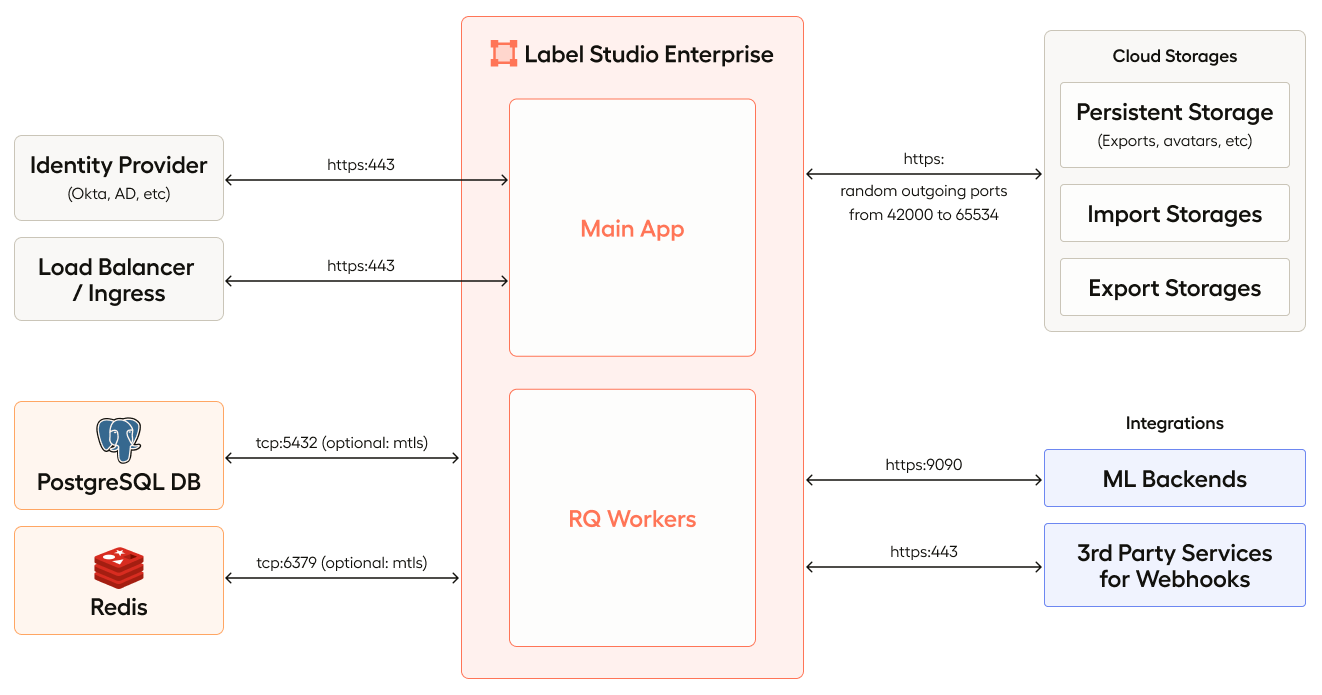
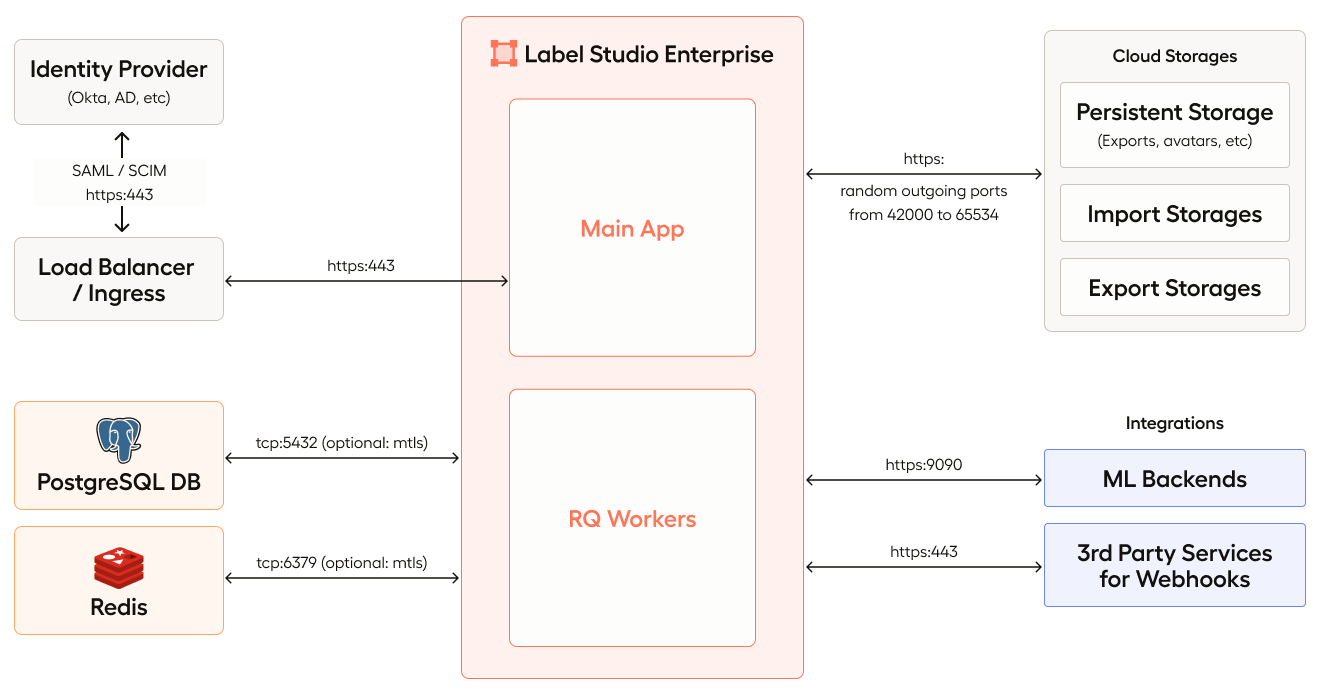
Updated diagram and added webhook link

Changed region(s): [[0.0, 0.1813, 0.1861, 0.3324], [0.0, 0.0906, 0.1551, 0.1511], [0.2481, 0.2115, 0.3101, 0.2719]]

diff --git a/docs/source/guide/install_enterprise.md b/docs/source/guide/install_enterprise.md
@@ -13,7 +13,7 @@ section: "Install"
 
 The two central components of Label Studio Enterprise are the main app and the RQ (Redis Queue) workers. An on-prem deployment typically also includes the following components:
 
-* [**Identity provider**](auth_setup): An external IdP that connects to the main app to send a SAML assertion to Label Studio. Identity providers help you manage user credentials and access. Common IdPs include Okta, Ping, Microsoft Active Directory. 
+* [**Identity provider**](auth_setup): An external IdP that connects to the main app to send a SAML or SCIM2.0 assertion to Label Studio. Identity providers help you manage user credentials and access. Common IdPs include Okta, Ping, Microsoft Active Directory. 
 
     While integrating an identity provider is recommended for managing user authentication and access control in a more scalable and secure manner, Label Studio Enterprise can be deployed with its own internal user management system if preferred. 
 * [**Load balancer/ingress**](ingress_config): This serves as a traffic manager that directs incoming network requests to the main app.
@@ -23,7 +23,7 @@ The two central components of Label Studio Enterprise are the main app and the R
   * Persistent storage for assets such as avatars and snapshots. 
   * Import storage that passes data to Label Studio to be used in labeling tasks. 
   * Export storage for saving the exported annotation data as those tasks are labeled. 
-* **Integrations**: For example, these can be a [custom ML backend](ml) that calculates pre-annotations, or any other third-party services that you integrate with Label Studio using webhooks. 
+* **Integrations**: For example, these can be a [custom ML backend](ml) that calculates pre-annotations, or any other third-party services that you integrate with Label Studio using [webhooks](webhooks). 
 
 
 ![Diagram of what is included in an on-prem Label Studio Enterprise deployment using Kubernetes](/images/LSE_k8s_scheme.png)
